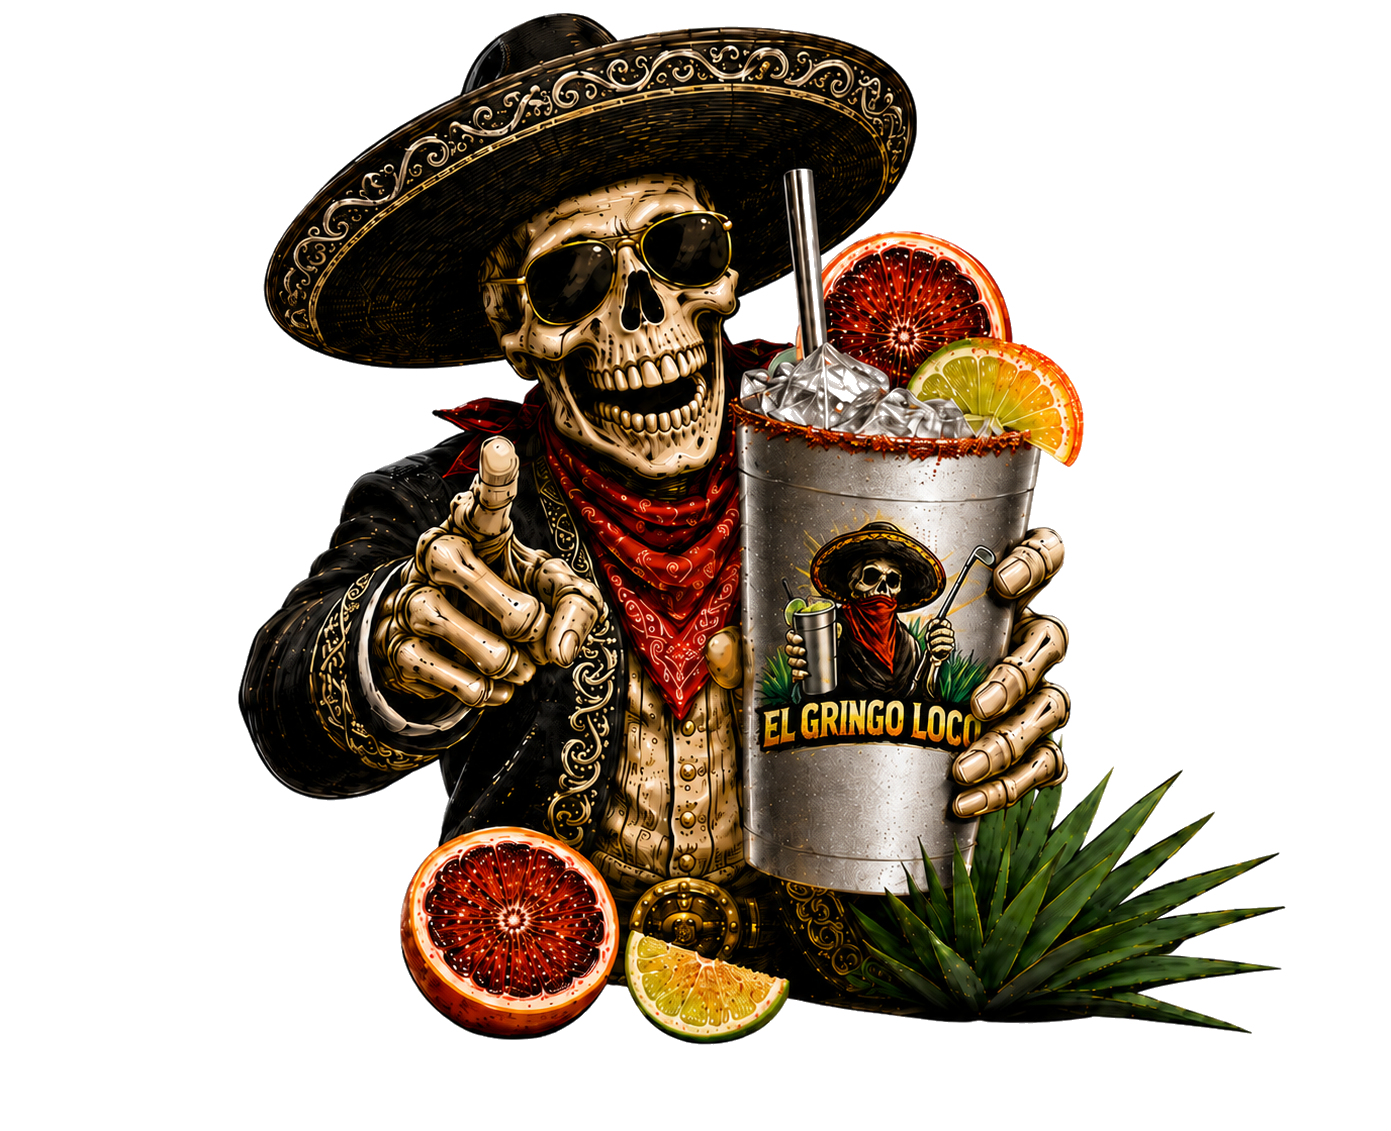
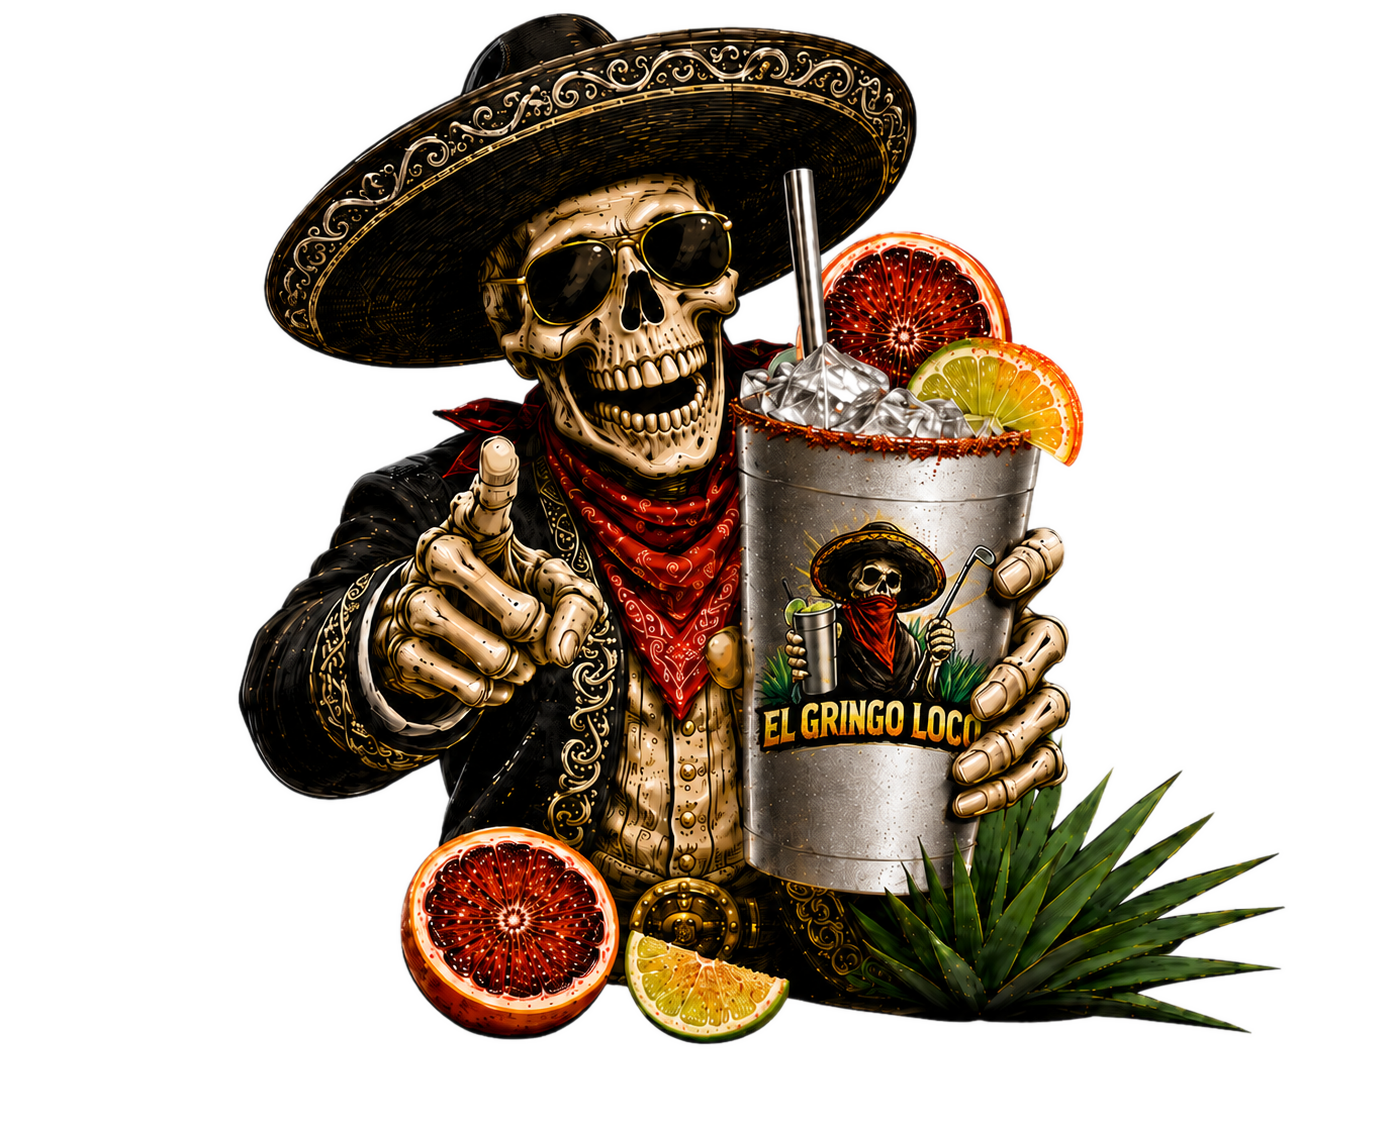
Feather promo image edge, shift rotating message up 15vh

diff --git a/src/components/waitlist/EmptyBoard.tsx b/src/components/waitlist/EmptyBoard.tsx
@@ -24,7 +24,7 @@ export default function EmptyBoard() {
     <div className="h-screen bg-rc-navy flex flex-col items-center px-16 py-10">
       <Image src="/rc-logo.png" alt="River Club Glen Arbor" width={720} height={320} className="object-contain shrink-0" />
       <div className="flex-1 w-full flex items-center justify-center min-h-0">
-        <div key={msgIndex} className="text-center animate-fade-in flex flex-col items-center gap-6">
+        <div key={msgIndex} className="text-center animate-fade-in flex flex-col items-center gap-6 -translate-y-[15vh]">
           <p className="text-white text-[7.5rem] font-black leading-tight max-w-6xl text-center" style={{ fontFamily: 'var(--font-montserrat), sans-serif' }}>
             {ROTATING_MESSAGES[msgIndex].text}
           </p>